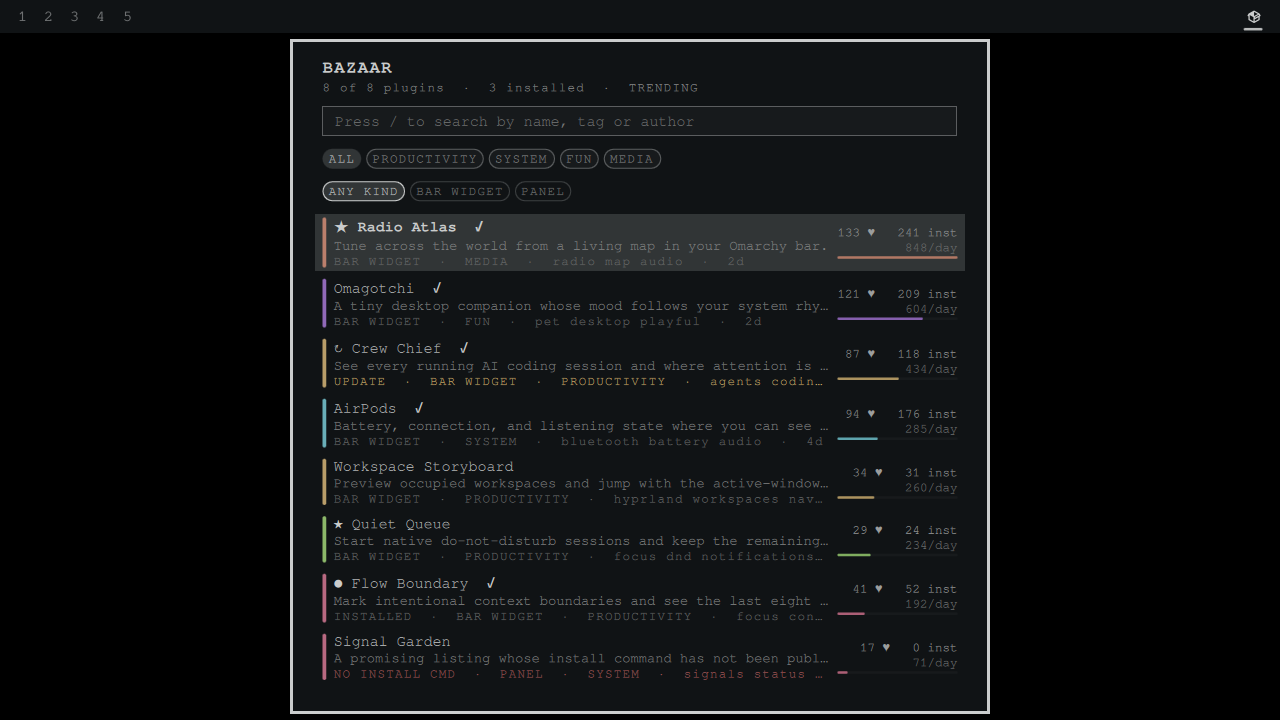
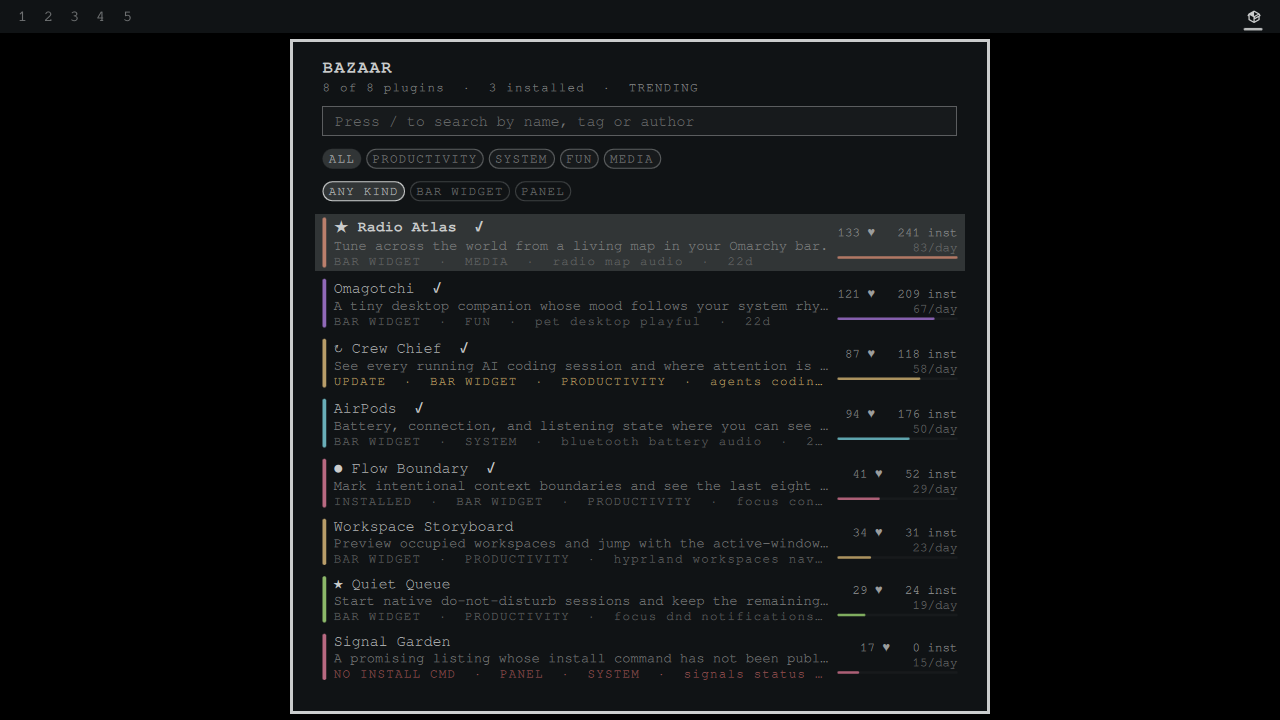
chore(release): bind the 1.0.1 rig receipts and record the release
The catalog host fix changes Service.qml and Model.js, both inside the render and
rig fingerprints, so the previous receipts no longer describe the tree. Refreshes
.rig-proof.json, .render-proof.json and preview.png from the rig against the
committed fix (source ba6d4b8, clean), and records the owner's visual approval
bound to preview hash b80f2e695dc8.

Adds the 1.0.1 CHANGELOG section by hand. scripts/gen-changelog.sh is not
release-aware: run here it relabelled the whole 1.0.0 history as 1.0.1, which
would have erased the 1.0.0 release, so its output was discarded. Every line in
the new section corresponds to the preceding commit, and credits @rdannenbring.

Verified: omarchy-plugin-validate exit 0 and qmllint 0 errors on the rig; loaded
in a real isolated Omarchy shell with 0 QML warnings; run-plugin-gates.sh PASS,
13 enforced, including c43; canonical c37 and c43 (contributing-clanker b2cbf01)
PASS; audit-harness verify OK. The fresh preview differs from the approved one in
3.06% of pixels, all inside the list, from relative dates such as "22d".

- Jeremy Longshore
intentsolutions.io

Changed region(s): [[0.25, 0.6417, 0.75, 0.8556], [0.6875, 0.5806, 0.7188, 0.6111]]

diff --git a/CHANGELOG.md b/CHANGELOG.md
@@ -12,6 +12,23 @@ Regenerate with `scripts/gen-changelog.sh`.
 
 Nothing yet.
 
+## [1.0.1] - 2026-09-20
+
+### Fixed
+
+- Fetch the catalog from `plugins.omarchy.org`, the marketplace's new home. The
+  old host began answering `/catalog.json` with a 301, and Bazaar refuses
+  redirects on purpose, so every fresh install stayed on "Loading the
+  marketplace". Reported, diagnosed and fixed by @rdannenbring in #8.
+- Point the "open listing" link at the same new host.
+
+### Changed
+
+- The service contract test now forbids the old catalog URL and any `-L` or
+  `--location`, so a stale or redirect-following fetch cannot return unnoticed.
+- The rig receipt writers fingerprint only the files git treats as part of the
+  project, matching gates c37 and c43.
+
 ## [1.0.0] - 2026-08-22
 
 ### Added
